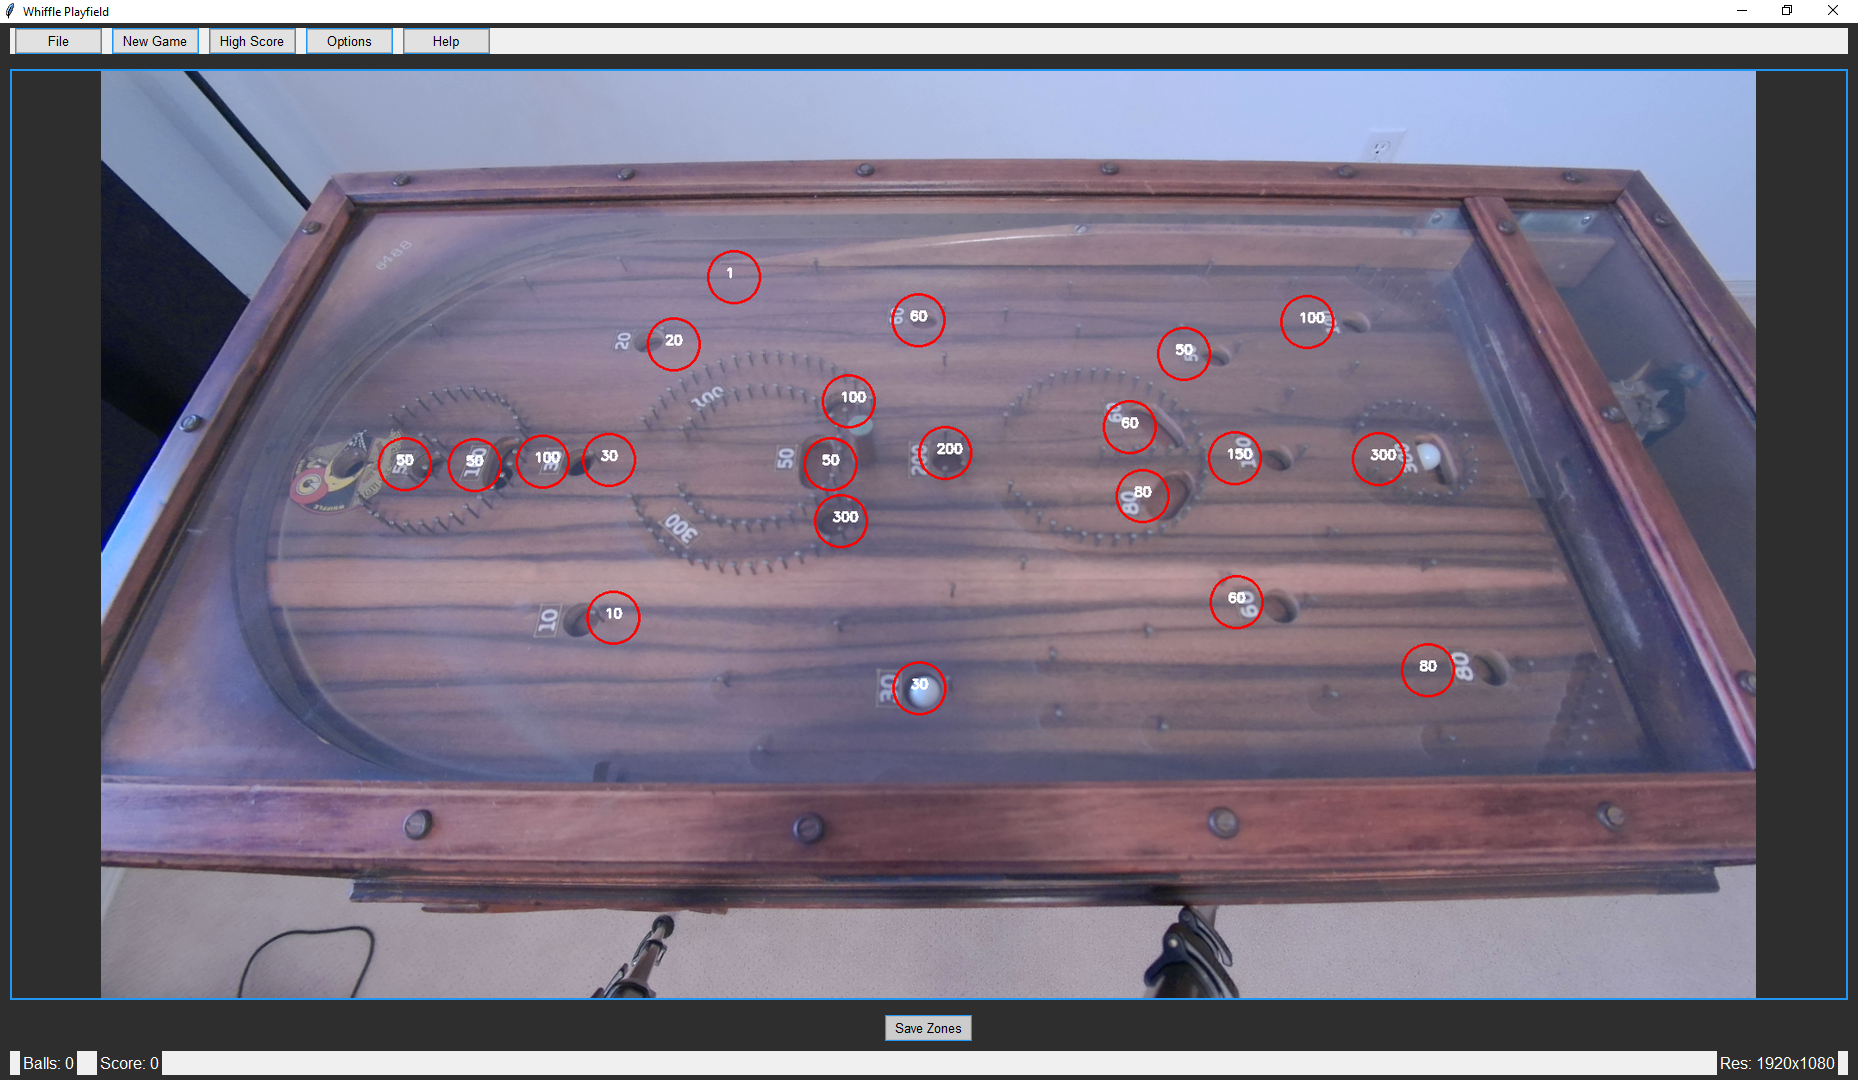
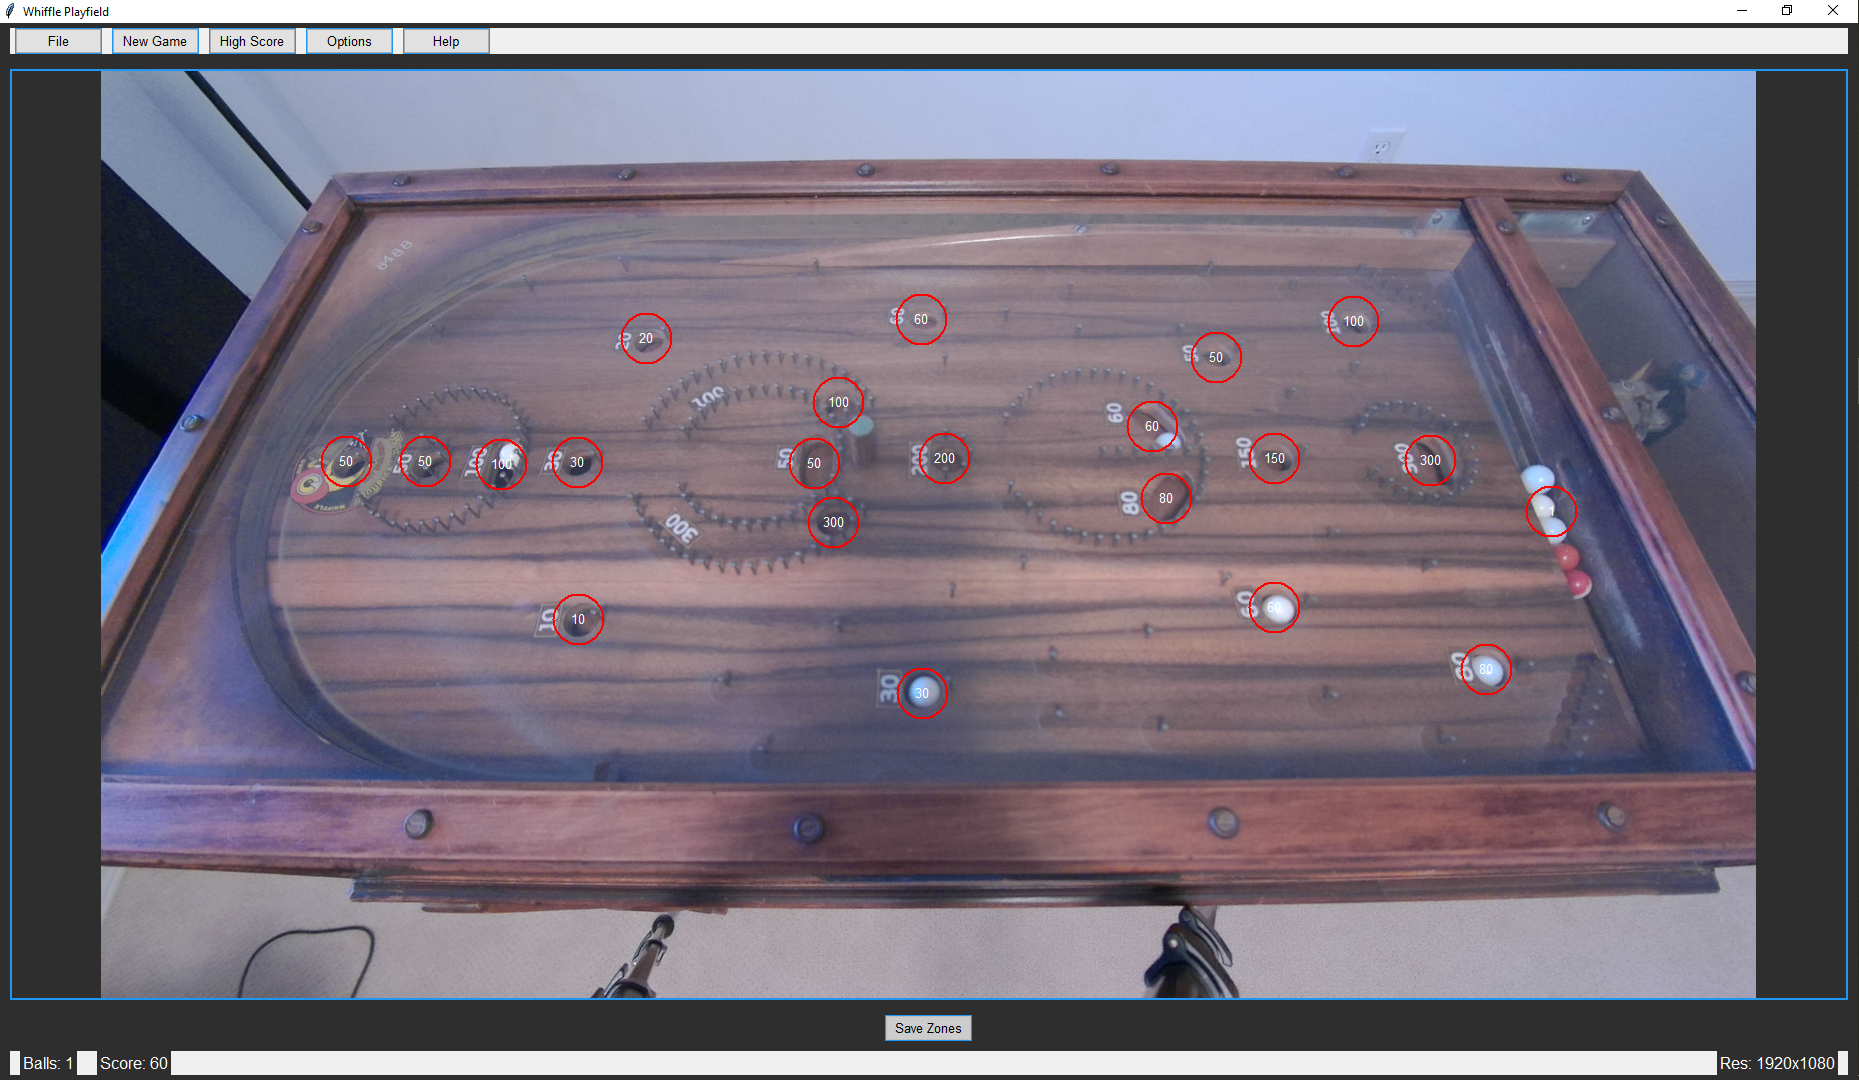
uh oh
omega is 667 lines of code now

diff --git a/2.6/whiffle_omega.py b/2.6/whiffle_omega.py
@@ -17,9 +17,9 @@ TOTAL_ZONES = 21  # Number of zones to trigger automatic save
 CALIBRATION_FILE = "whiffle_zones.json"
 HIGH_SCORE_FILE = "whiffle_high_score.json"
 
-# Detection settings (adjusted for better ball detection)
-BALL_COLOR_RANGE = {"lower_white": [0, 0, 220], "upper_white": [180, 30, 255]}  # Narrowed range
-MIN_CONTOUR_AREA = 50  # Minimum area to filter out noise
+# Detection settings (relaxed for better ball detection)
+BALL_COLOR_RANGE = {"lower_white": [0, 0, 200], "upper_white": [180, 50, 255]}  # Widened range
+MIN_CONTOUR_AREA = 30  # Reduced to detect smaller or less contrasted balls
 
 # Game state
 current_score = 0
@@ -85,13 +85,18 @@ def detect_balls(frame):
     contours, _ = cv2.findContours(mask, cv2.RETR_EXTERNAL, cv2.CHAIN_APPROX_SIMPLE)
     
     balls = []
+    print(f"Found {len(contours)} contours")  # Debug
     for contour in contours:
         area = cv2.contourArea(contour)
-        if area > MIN_CONTOUR_AREA:  # Filter out small noise or large background
+        if area > MIN_CONTOUR_AREA:
             ((x, y), radius) = cv2.minEnclosingCircle(contour)
             if radius > 10:
                 balls.append((int(x), int(y), int(radius)))
                 print(f"Detected ball at ({x}, {y}) with radius {radius}, area {area}")  # Debug
+            else:
+                print(f"Filtered ball at ({x}, {y}) due to radius {radius} < 10")  # Debug
+        else:
+            print(f"Filtered contour at ({x}, {y}) due to area {area} < {MIN_CONTOUR_AREA}")  # Debug
     return balls
 
 def calculate_score(balls, point_zones):
@@ -128,7 +133,7 @@ class CustomDialog:
         label = tk.Label(frame, text=prompt, font=("Helvetica", 10), bg="#2E2E2E", fg="white")
         label.pack(pady=5)
 
-        # Entry (using tk.Entry instead of ttk.Entry for direct styling control)
+        # Entry (using tk.Entry for direct styling control)
         self.entry = tk.Entry(frame, font=("Helvetica", 10), bg="#4A4A4A", fg="white", insertbackground="white")
         self.entry.pack(pady=5)
         self.entry.focus_set()
@@ -330,6 +335,9 @@ class WhiffleGame:
         self.zone_circles = []
         self.zone_texts = []
         self.frame = initial_frame  # Initialize with the first frame
+        self.red_zone_circles = []  # Store canvas IDs for red circles
+        self.red_zone_texts = []    # Store canvas IDs for red zone texts
+        self.green_ball_circles = []  # Store canvas IDs for green ball circles
 
         # Enable save button during calibration
         if self.calibrating:
@@ -437,10 +445,25 @@ class WhiffleGame:
         canvas_height = self.canvas.winfo_height()
         if self.frame is not None and canvas_width > 0 and canvas_height > 0:
             frame_width, frame_height = self.frame.shape[1], self.frame.shape[0]
-            scale_x = frame_width / canvas_width
-            scale_y = frame_height / canvas_height
-            x_frame = int(x * scale_x)
-            y_frame = int(y * scale_y)
+            # Calculate scaling factors based on displayed image size
+            aspect_ratio = frame_width / frame_height
+            new_height = int(canvas_width / aspect_ratio)
+            if new_height > canvas_height:
+                new_height = canvas_height
+                new_width = int(canvas_height * aspect_ratio)
+            else:
+                new_width = canvas_width
+            # Calculate offsets due to centering
+            offset_x = (canvas_width - new_width) // 2
+            offset_y = (canvas_height - new_height) // 2
+            # Adjust clicked coordinates to account for offsets and scaling
+            adjusted_x = x - offset_x
+            adjusted_y = y - offset_y
+            scale_x = frame_width / new_width
+            scale_y = frame_height / new_height
+            x_frame = int(adjusted_x * scale_x)
+            y_frame = int(adjusted_y * scale_y)
+            print(f"Converted canvas click ({x}, {y}) to frame coordinates ({x_frame}, {y_frame})")  # Debug
         else:
             x_frame = x
             y_frame = y
@@ -494,6 +517,17 @@ class WhiffleGame:
             self.root.destroy()
             return
 
+        # Clear previous red circles, texts, and green balls
+        for circle_id in self.red_zone_circles:
+            self.canvas.delete(circle_id)
+        for text_id in self.red_zone_texts:
+            self.canvas.delete(text_id)
+        for circle_id in self.green_ball_circles:
+            self.canvas.delete(circle_id)
+        self.red_zone_circles = []
+        self.red_zone_texts = []
+        self.green_ball_circles = []
+
         # Handle save and transition in the update loop to avoid GIL issues
         if self.save_triggered and self.calibrating:
             if self.point_zones:
@@ -515,15 +549,32 @@ class WhiffleGame:
             global current_score, high_score
             current_score = max(current_score, round_score)
             high_score = max(high_score, current_score)
+            print(f"Calculated score: {current_score}, Total balls detected: {total_balls}")  # Debug
 
             for (x, y, r) in balls:
-                cv2.circle(self.frame, (x, y), r, (0, 255, 0), 2)
-                print(f"Ball detected at ({x}, {y}) with radius {r}")  # Debug
-            
-            for (x, y, r, points) in self.point_zones:
-                cv2.circle(self.frame, (x, y), r, (0, 0, 255), 2)
-                cv2.putText(self.frame, str(points), (x - 10, y), cv2.FONT_HERSHEY_SIMPLEX, 
-                            0.5, (255, 255, 255), 2)
+                # Convert frame coordinates to canvas coordinates
+                canvas_width = self.canvas.winfo_width()
+                canvas_height = self.canvas.winfo_height()
+                if canvas_width > 0 and canvas_height > 0:
+                    aspect_ratio = self.frame.shape[1] / self.frame.shape[0]
+                    new_height = int(canvas_width / aspect_ratio)
+                    if new_height > canvas_height:
+                        new_height = canvas_height
+                        new_width = int(canvas_height * aspect_ratio)
+                    else:
+                        new_width = canvas_width
+                    offset_x = (canvas_width - new_width) // 2
+                    offset_y = (canvas_height - new_height) // 2
+                    scale_x = new_width / self.frame.shape[1]
+                    scale_y = new_height / self.frame.shape[0]
+                    x_canvas = int(x * scale_x) + offset_x
+                    y_canvas = int(y * scale_y) + offset_y
+                    r_canvas = int(r * scale_x)
+                    circle_id = self.canvas.create_oval(x_canvas - r_canvas, y_canvas - r_canvas,
+                                                        x_canvas + r_canvas, y_canvas + r_canvas,
+                                                        outline="green", width=2)
+                    self.green_ball_circles.append(circle_id)
+                    print(f"Drawing ball at canvas coordinates ({x_canvas}, {y_canvas}) with radius {r_canvas}")  # Debug
 
             self.balls_label.config(text=f"Balls: {total_balls}")
             self.score_label.config(text=f"Score: {current_score}")
@@ -548,9 +599,34 @@ class WhiffleGame:
         else:
             new_width, new_height = self.frame.shape[1], self.frame.shape[0]  # Use original size if canvas is not ready
             print(f"Warning: Canvas dimensions invalid ({canvas_width}x{canvas_height}), using original frame size {new_width}x{new_height}")
+        
+        # Calculate offsets for centering the image
+        offset_x = (canvas_width - new_width) // 2
+        offset_y = (canvas_height - new_height) // 2
+
         self.photo = ImageTk.PhotoImage(image=img)
-        self.canvas.create_image((canvas_width - new_width) // 2, (canvas_height - new_height) // 2, 
-                                image=self.photo, anchor="nw")
+        self.canvas.create_image(offset_x, offset_y, image=self.photo, anchor="nw")
+
+        # Draw scoring zones on the canvas (convert frame coordinates to canvas coordinates)
+        for x_frame, y_frame, r, points in self.point_zones:
+            # Convert frame coordinates back to canvas coordinates
+            scale_x = new_width / self.frame.shape[1]
+            scale_y = new_height / self.frame.shape[0]
+            x_canvas = int(x_frame * scale_x) + offset_x
+            y_canvas = int(y_frame * scale_y) + offset_y
+            r_canvas = int(r * scale_x)  # Scale the radius as well
+            print(f"Rendering zone: frame ({x_frame}, {y_frame}) -> canvas ({x_canvas}, {y_canvas})")  # Debug
+
+            # Draw red circle on the canvas
+            circle_id = self.canvas.create_oval(x_canvas - r_canvas, y_canvas - r_canvas, 
+                                                x_canvas + r_canvas, y_canvas + r_canvas, 
+                                                outline="red", width=2)
+            self.red_zone_circles.append(circle_id)
+
+            # Draw point text on the canvas
+            text_id = self.canvas.create_text(x_canvas, y_canvas, text=str(points), 
+                                              fill="white", font=("Helvetica", 10))
+            self.red_zone_texts.append(text_id)
 
         # Handle key presses
         key = cv2.waitKey(1) & 0xFF
@@ -567,8 +643,17 @@ class WhiffleGame:
                 self.canvas.delete(circle_id)
             for text_id in self.zone_texts:
                 self.canvas.delete(text_id)
+            for circle_id in self.red_zone_circles:
+                self.canvas.delete(circle_id)
+            for text_id in self.red_zone_texts:
+                self.canvas.delete(text_id)
+            for circle_id in self.green_ball_circles:
+                self.canvas.delete(circle_id)
             self.zone_circles = []
             self.zone_texts = []
+            self.red_zone_circles = []
+            self.red_zone_texts = []
+            self.green_ball_circles = []
 
         self.root.after(10, self.update_frame)
 
